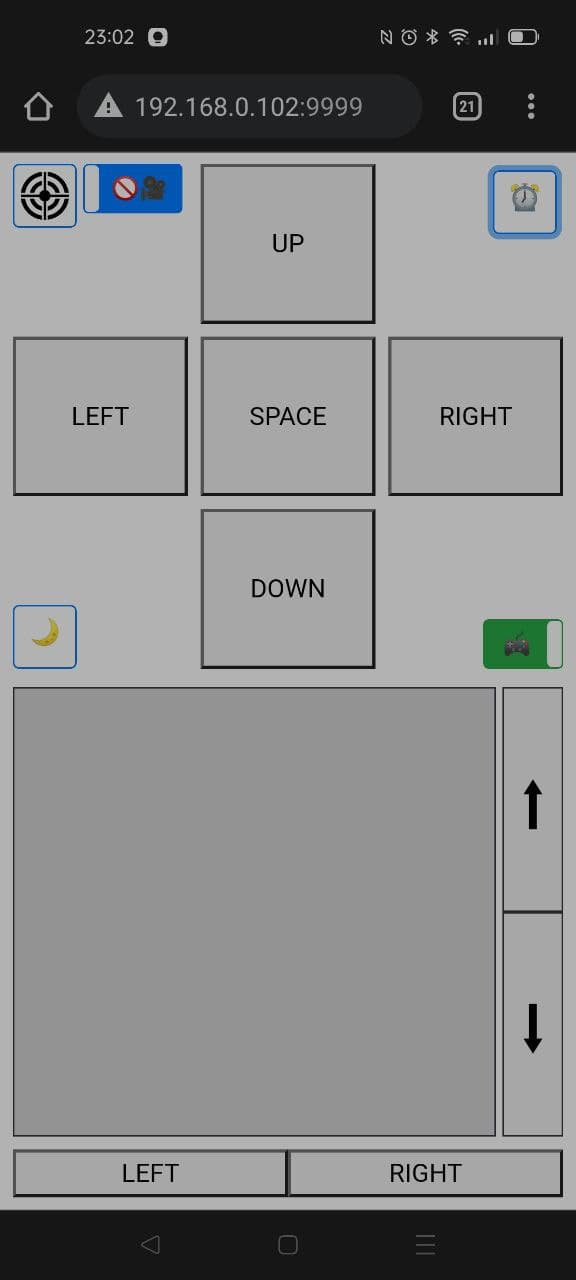
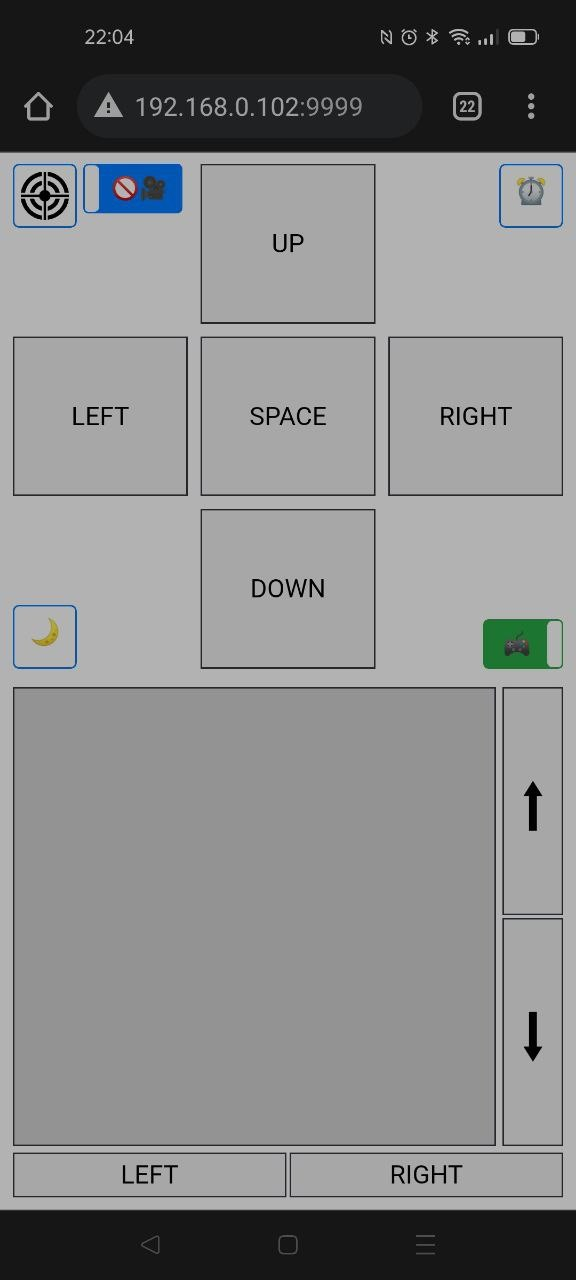
Updated. UI

diff --git a/templates/index.html b/templates/index.html
@@ -86,6 +86,11 @@
             -ms-user-select:       none; /* Internet Explorer/Edge */
             user-select:           none; /* Non-prefixed version, currently supported by Chrome, Opera and Firefox */
         }
+
+        .sep_4px {
+            width: 4px;
+            height: 4px;
+        }
     </style>
 </head>
 
@@ -226,7 +231,7 @@
                     >
                 </div>
                 <div class="cell m-1">
-                    <button class="key_control" value="up">UP</button>
+                    <button class="key_control border border-dark" value="up">UP</button>
                 </div>
                 <div class="cell m-1">
                     <button
@@ -241,13 +246,13 @@
             </div>
             <div class="d-flex flex-row justify-content-center">
                 <div class="cell m-1">
-                    <button class="key_control" value="left">LEFT</button>
+                    <button class="key_control border border-dark" value="left">LEFT</button>
                 </div>
                 <div class="cell m-1">
-                    <button class="key_control" value="space">SPACE</button>
+                    <button class="key_control border border-dark" value="space">SPACE</button>
                 </div>
                 <div class="cell m-1">
-                    <button class="key_control" value="right">RIGHT</button>
+                    <button class="key_control border border-dark" value="right">RIGHT</button>
                 </div>
             </div>
             <div class="d-flex flex-row justify-content-center">
@@ -262,7 +267,7 @@
                     </div>
                 </div>
                 <div class="cell m-1">
-                    <button class="key_control" value="down">DOWN</button>
+                    <button class="key_control border border-dark" value="down">DOWN</button>
                 </div>
                 <div class="cell m-1">
                     <div class="d-flex align-items-end flex-column h-100">
@@ -287,13 +292,14 @@
                 </div>
                 <div id="mouse_wheel" class="d-flex flex-column">
                     <button id="mouse_wheel_up" class="border border-dark h-100">⬆</button>
+                    <div class="sep_4px"></div>
                     <button id="mouse_wheel_down" class="border border-dark h-100">⬇</button>
                 </div>
             </div>
-            <div class="d-flex flex-row m-1 mouse_button_container">
-                <button id="mouse_left" class="h-100 w-100">LEFT</button>
-                <div style="width: 5px"></div>
-                <button id="mouse_right" class="h-100 w-100">RIGHT</button>
+            <div class="d-flex flex-row ml-1 mr-1 mb-1 mouse_button_container">
+                <button id="mouse_left" class="h-100 w-100 border border-dark">LEFT</button>
+                <div class="sep_4px"></div>
+                <button id="mouse_right" class="h-100 w-100 border border-dark">RIGHT</button>
             </div>
         </div>
     </div>
